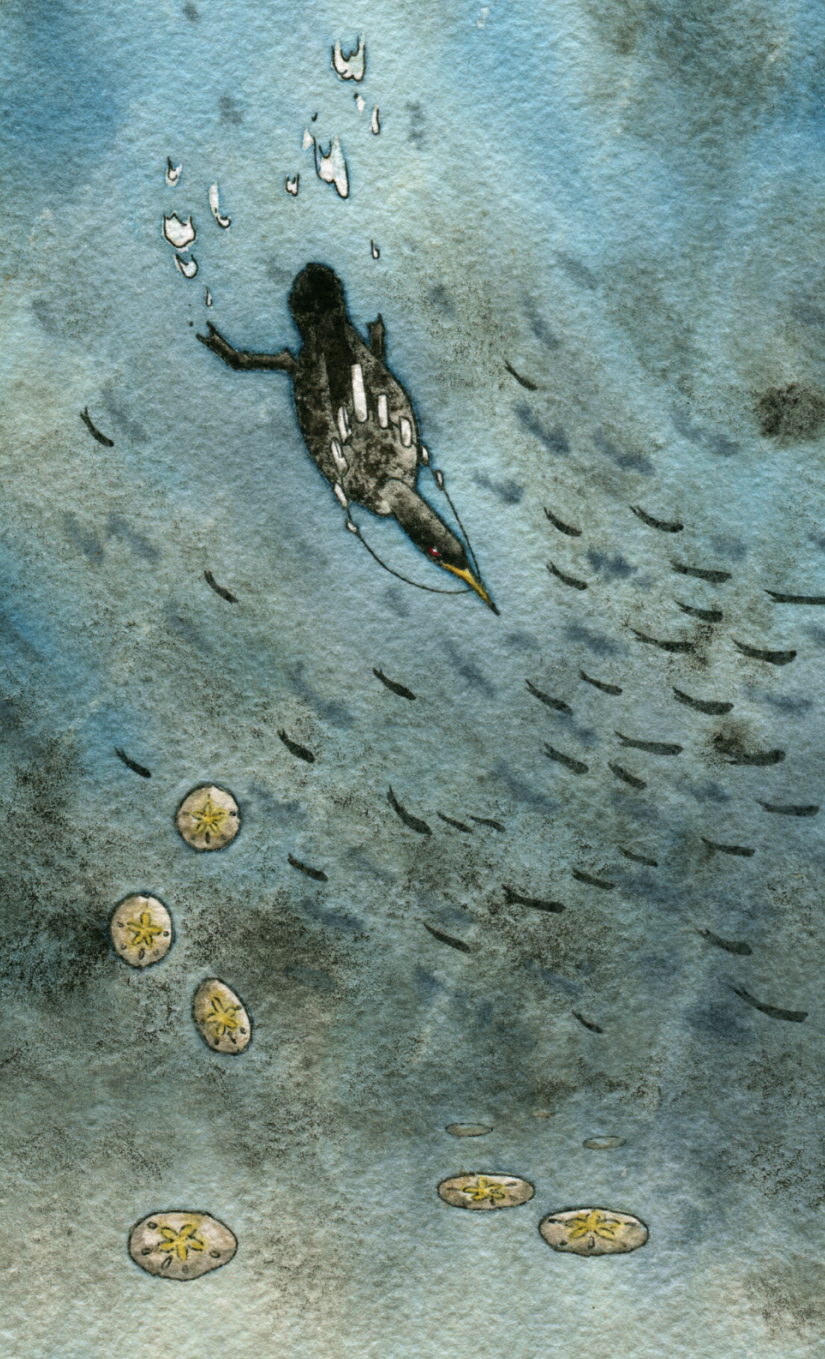
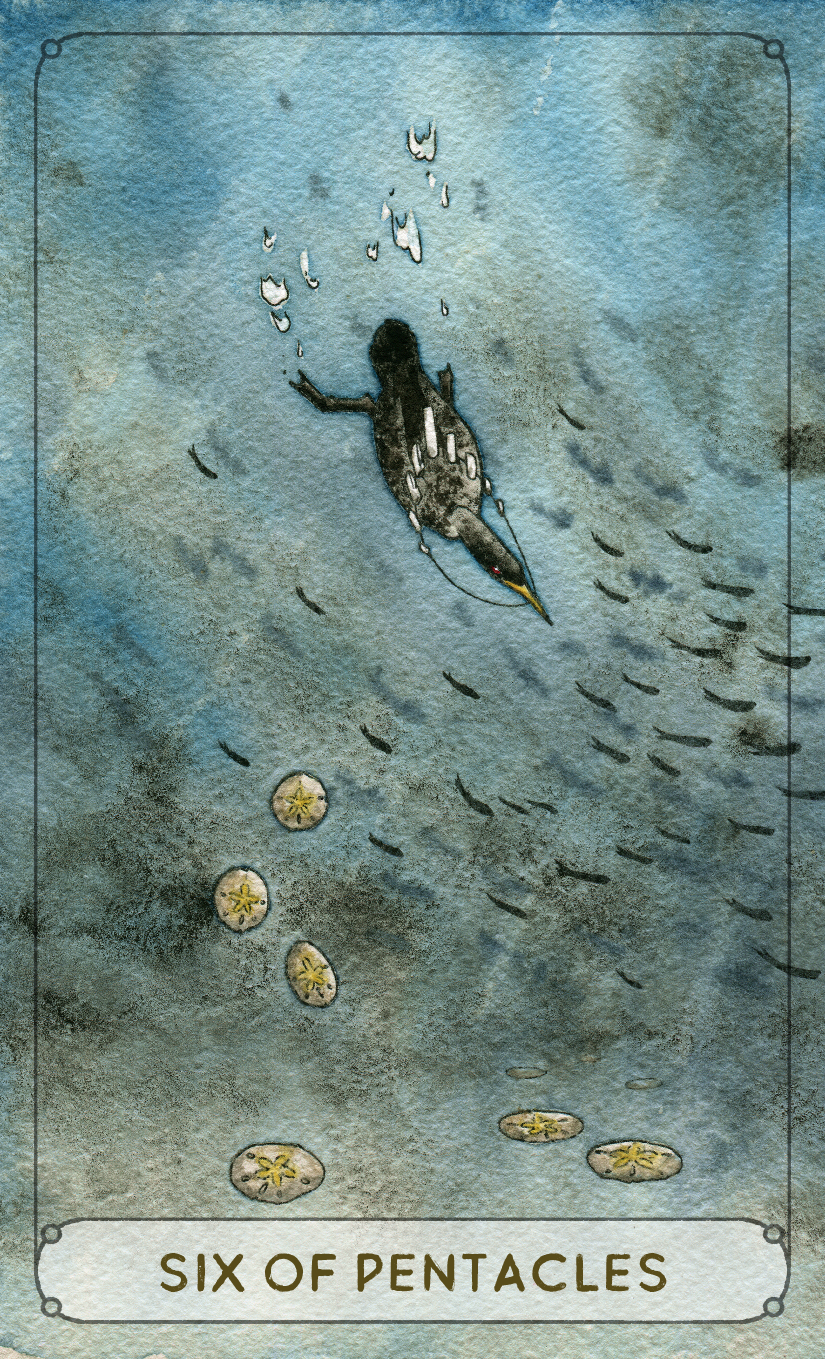
tarot
six pentacles

diff --git a/tarot/src/static/Tarot-content.js b/tarot/src/static/Tarot-content.js
@@ -694,7 +694,7 @@ function TarotArray() {
     },
     {
       cardValue: 69,
-      artStatus: 'Draft',
+      artStatus: 'Complete',
       title: 'Six of Pentacles',
       uprightTitle: 'Upright',
       reverseTitle: 'Reversed',
